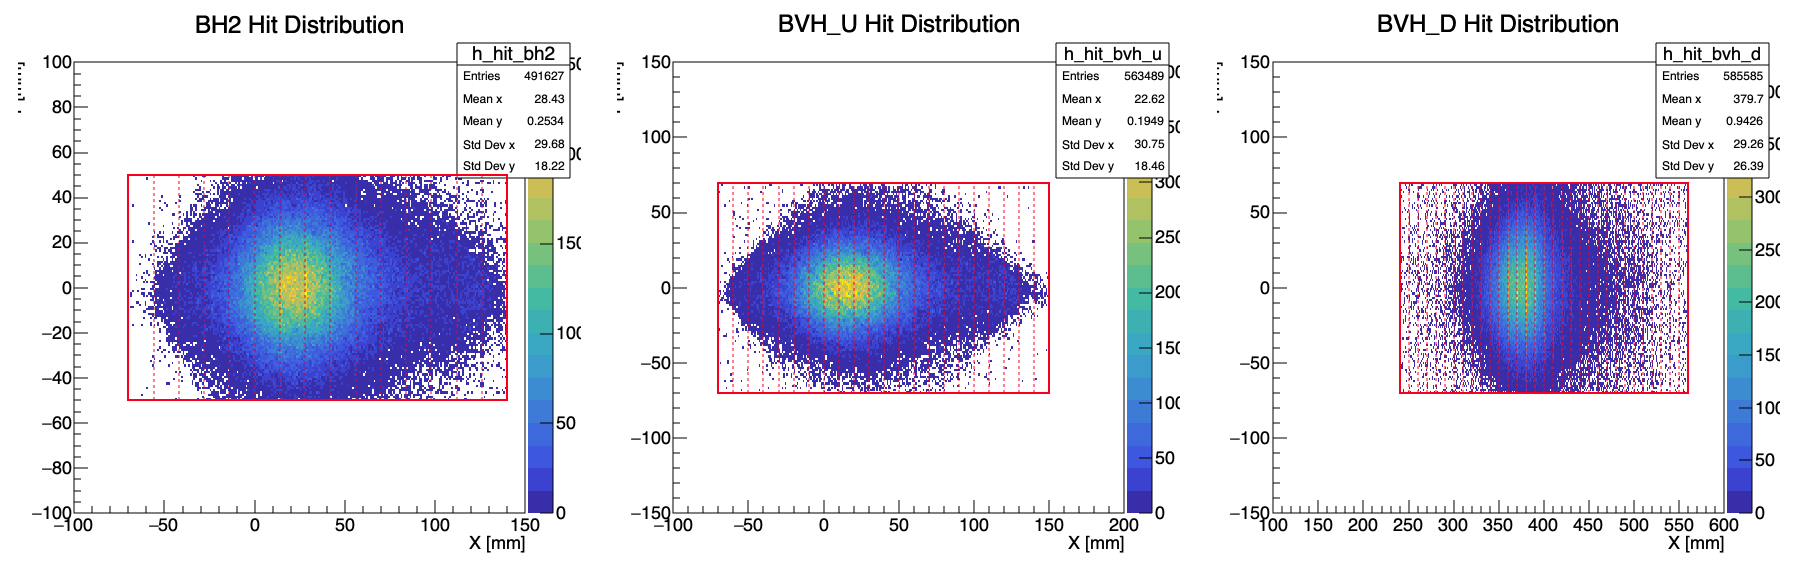
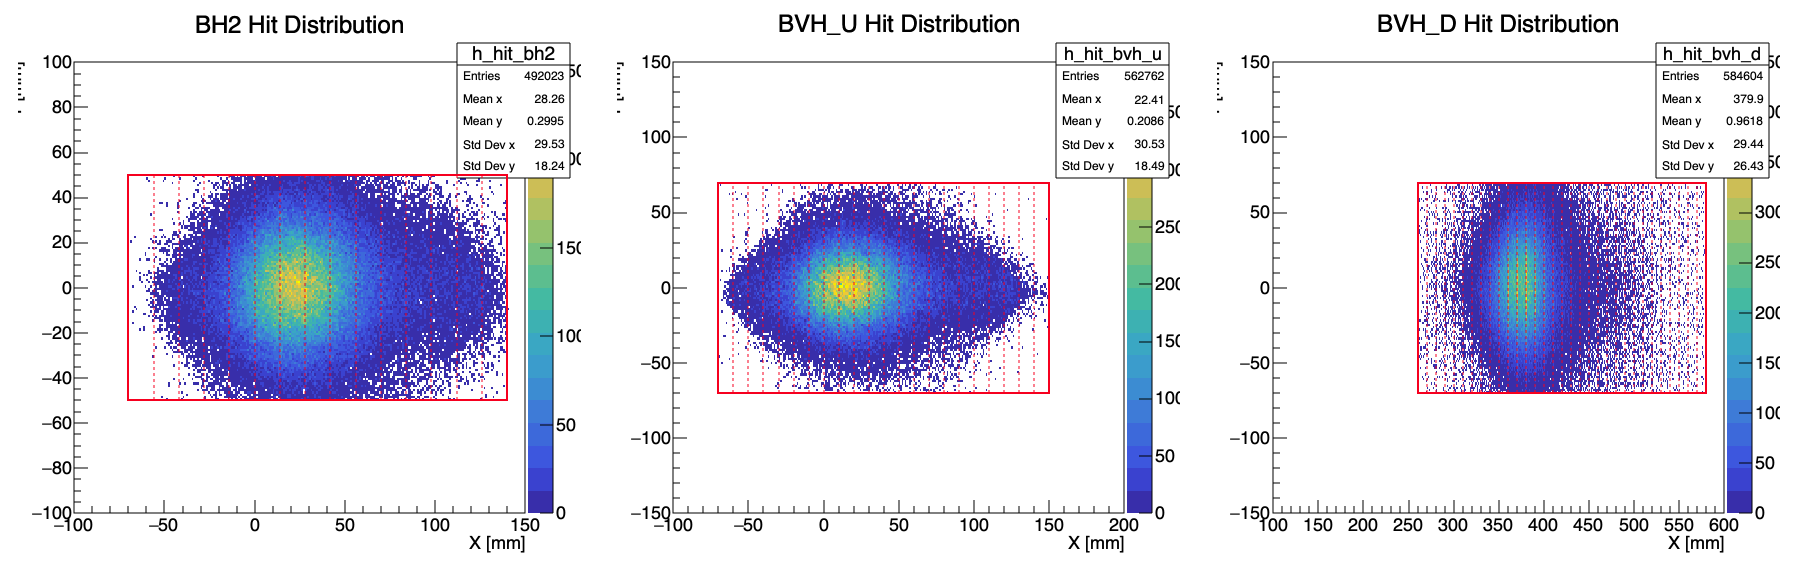
450

diff --git a/root/view_detectors_BVH.C b/root/view_detectors_BVH.C
@@ -44,7 +44,7 @@ void view_detectors_BVH() {
   gStyle->SetOptStat(1111);
   gStyle->SetPalette(kBird);
 
-  TFile *f = TFile::Open("E45_segment_32.root","READ");
+  TFile *f = TFile::Open("E45_segment_32_420.root","READ");
   if (!f || f->IsZombie()) { Error("view_detectors_BVH","cannot open file"); return; }
   auto *tree = (TTree*)f->Get("g4hyptpc");
   if (!tree) { Error("view_detectors_BVH","tree g4hyptpc not found"); return; }
@@ -82,6 +82,6 @@ void view_detectors_BVH() {
   c->Divide(3,1);
   c->cd(1); h_hit_bh2->Draw("COLZ");   draw_bh2_overlay(35.0);   // ★ BH2 중심 X = 35
   c->cd(2); h_hit_bvh_u->Draw("COLZ"); draw_bvh_u_overlay(40.0); // ★ BVH_U 중심 X = 40
-  c->cd(3); h_hit_bvh_d->Draw("COLZ"); draw_bvh_d_overlay(400.0);// ★ BVH_D 중심 X = 350
+  c->cd(3); h_hit_bvh_d->Draw("COLZ"); draw_bvh_d_overlay(420.0);// ★ BVH_D 중심 X = 350
   c->SaveAs("hits_with_overlays.png");
 }

diff --git a/root/BVH_3D.C b/root/BVH_3D.C
@@ -62,7 +62,7 @@ static inline void get_unique_hits(const std::vector<TParticle>* v,
 }
 
 // ================== Main Analysis Function ==================
-void BVH_3D(const char* fname = "E45_segment_32.root",
+void BVH_3D(const char* fname = "E45_segment_32_420.root",
             double ecutBH2MeV = 0.10,
             double ecutUMeV   = 0.04,
             double ecutDMeV   = 0.04,
@@ -286,6 +286,6 @@ gInterpreter->GenerateDictionary("vector<TParticle>", "TParticle.h;vector");
 // ================== Convenience wrapper ==================
 void run_analysis() {
   int event_threshold = 1; // (1) change here to highlight bins >=300 counts
-  BVH_3D("E45_segment_32.root", 0.10, 0.04, 0.04, event_threshold);
+  BVH_3D("E45_segment_32_420.root", 0.10, 0.04, 0.04, event_threshold);
   std::cout << "[Config] Red boxes mark bins with counts >= " << event_threshold << "." << std::endl;
 }
